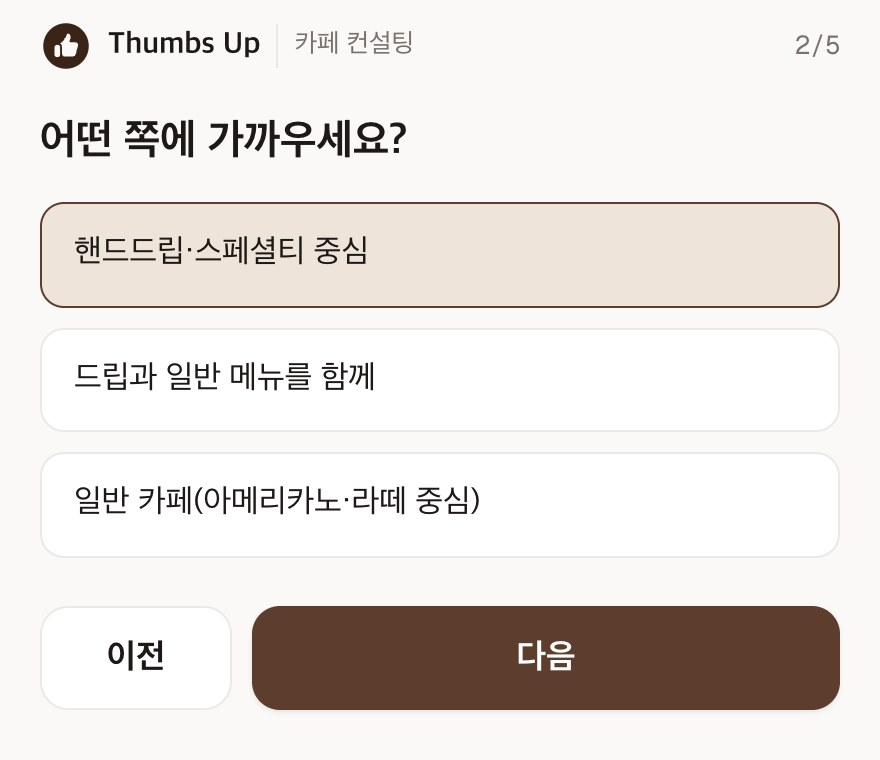
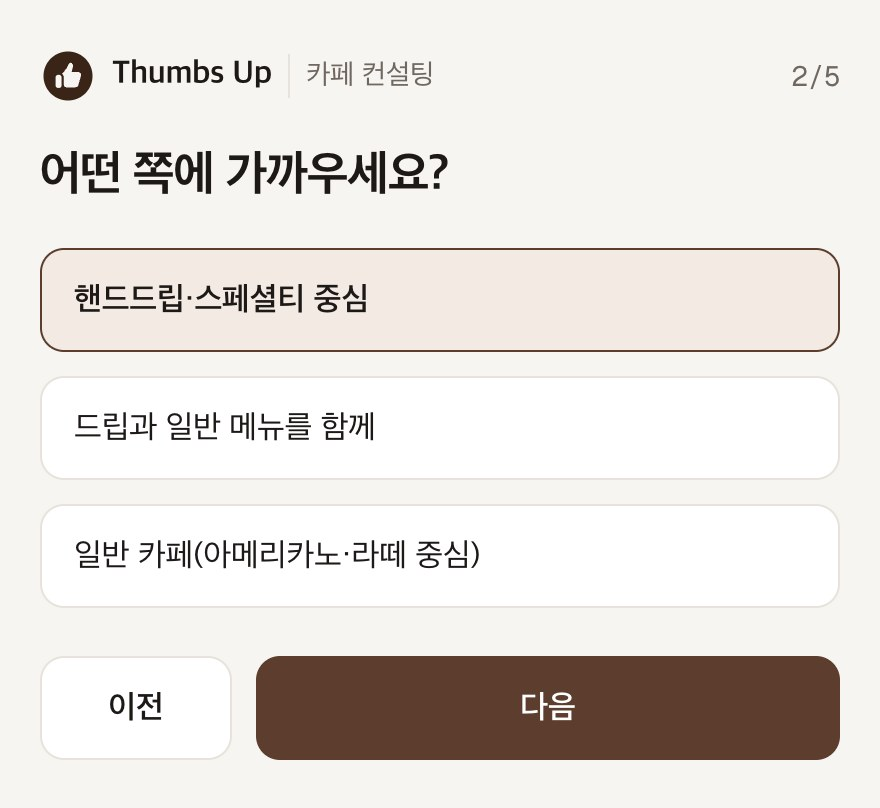
Consulting app: new screenshots from the redesign; fix research photo spacing
Four screenshots of the redesigned app (question, score receipt, radar,
to-dos) replace the old three. Research photo slots now sit one per column
under the facts and the question instead of leaving the right half empty.

diff --git a/social.html b/social.html
@@ -141,9 +141,10 @@
     <p>A free, AI-powered tool for independent cafe owners, built after interviewing 10+ of them. Five quick questions, then a report on online exposure, competitiveness, and what to fix first.</p>
     <div class="gallery rows app-shots">
       <div class="row">
-        <figure class="ph" style="--r:1.158"><img src="images/consulting/questionnaire.jpg" alt="Consulting app question: what kind of cafe is it" loading="lazy"></figure>
-        <figure class="ph" style="--r:0.759"><img src="images/consulting/report-radar.jpg" alt="Report: four-axis competitiveness radar with the area to fix first" loading="lazy"></figure>
-        <figure class="ph" style="--r:0.889"><img src="images/consulting/report-actions.jpg" alt="Report: priorities and to-dos for this week and this month" loading="lazy"></figure>
+        <figure class="ph" style="--r:1.089"><img src="images/consulting/questionnaire.jpg" alt="Consulting app question: what kind of cafe is it" loading="lazy"></figure>
+        <figure class="ph" style="--r:0.779"><img src="images/consulting/report-score.jpg" alt="Report receipt: online exposure score of 75 out of 100 with each listing checked" loading="lazy"></figure>
+        <figure class="ph" style="--r:0.707"><img src="images/consulting/report-radar.jpg" alt="Report receipt: four-axis competitiveness radar and the area to fix first" loading="lazy"></figure>
+        <figure class="ph" style="--r:0.789"><img src="images/consulting/report-actions.jpg" alt="Report receipt: priorities and checkbox to-dos for this week and this month" loading="lazy"></figure>
       </div>
     </div>
   </section>
@@ -163,7 +164,7 @@
       </dl>
       <blockquote><span>The question</span>Do cafes help drive the gentrification of their own neighborhoods?</blockquote>
     </div>
-    <div class="gallery slots slots-4">
+    <div class="gallery slots research-shots">
       <figure class="ph olive"><span class="cap">Fieldwork in Seoul</span></figure>
       <figure class="ph"><span class="cap">Research with Prof. Keum</span></figure>
     </div>

diff --git a/styles.css b/styles.css
@@ -340,7 +340,10 @@ figure{margin:0;}
   background:color-mix(in srgb,var(--accent) 8%,var(--cream));border-left:6px solid var(--accent);
   font-family:var(--f-display);font-weight:700;font-size:clamp(20px,1.9vw,28px);line-height:1.15;letter-spacing:-.03em;color:var(--coffee);}
 .research-q blockquote span{font-family:var(--f-mono);font-size:12px;line-height:16px;font-weight:500;letter-spacing:.12em;text-transform:uppercase;color:var(--accent-ink,var(--accent));}
-@media (max-width:820px){.research-q{grid-template-columns:1fr;gap:24px;}}
+/* research photos sit under the facts and the question, one per column */
+.gallery.research-shots{grid-template-columns:repeat(2,minmax(0,1fr));gap:48px;}
+.gallery.research-shots > .ph{aspect-ratio:16/7;}
+@media (max-width:820px){.research-q{grid-template-columns:1fr;gap:24px;}.gallery.research-shots{grid-template-columns:1fr;gap:16px;}}
 
 /* label + value facts */
 .facts{margin:0;display:flex;flex-direction:column;}
